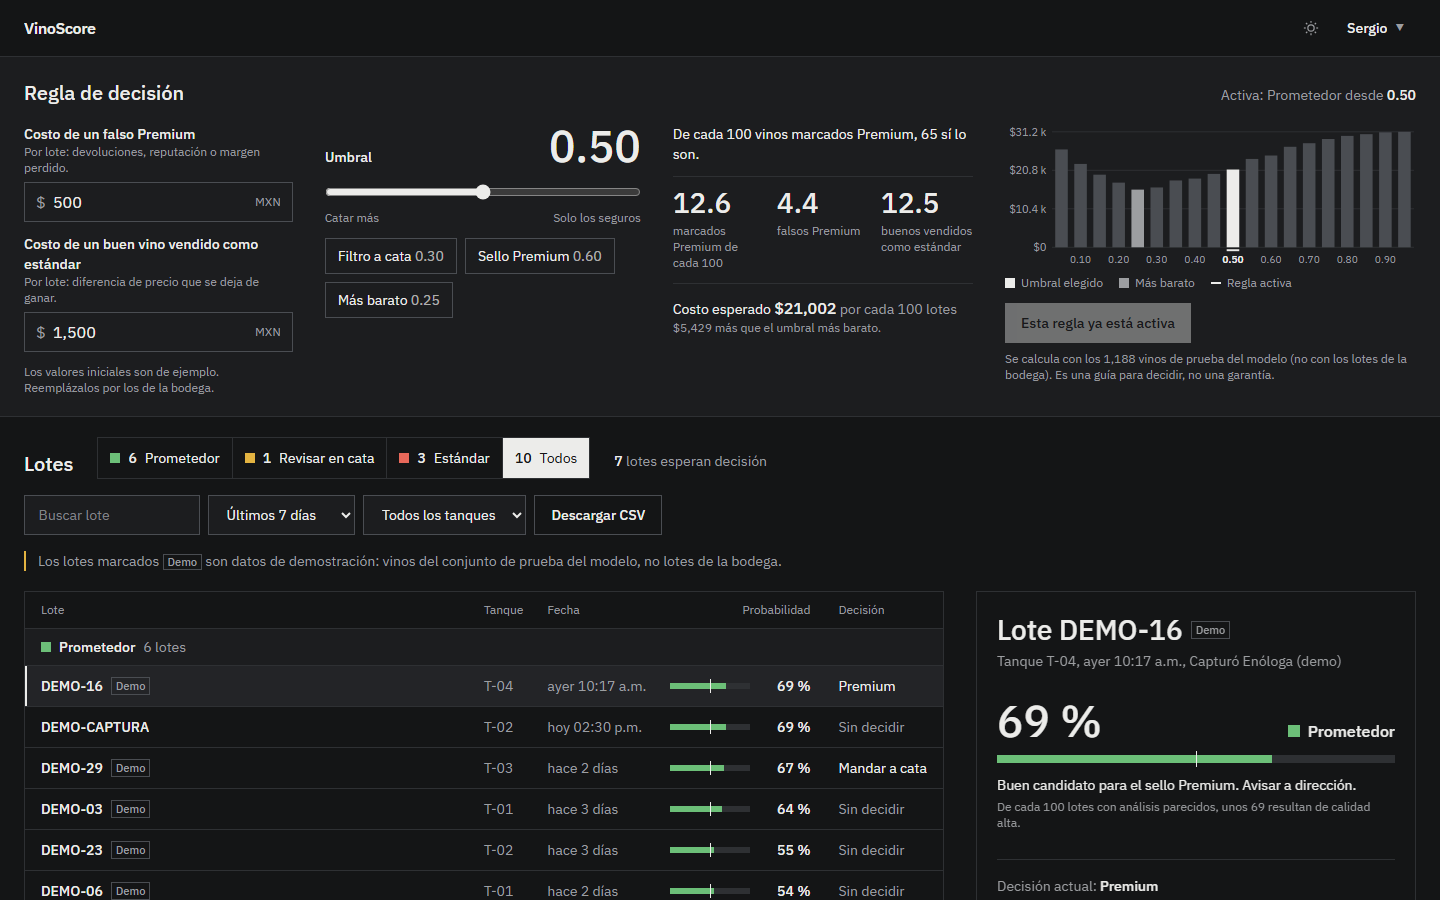
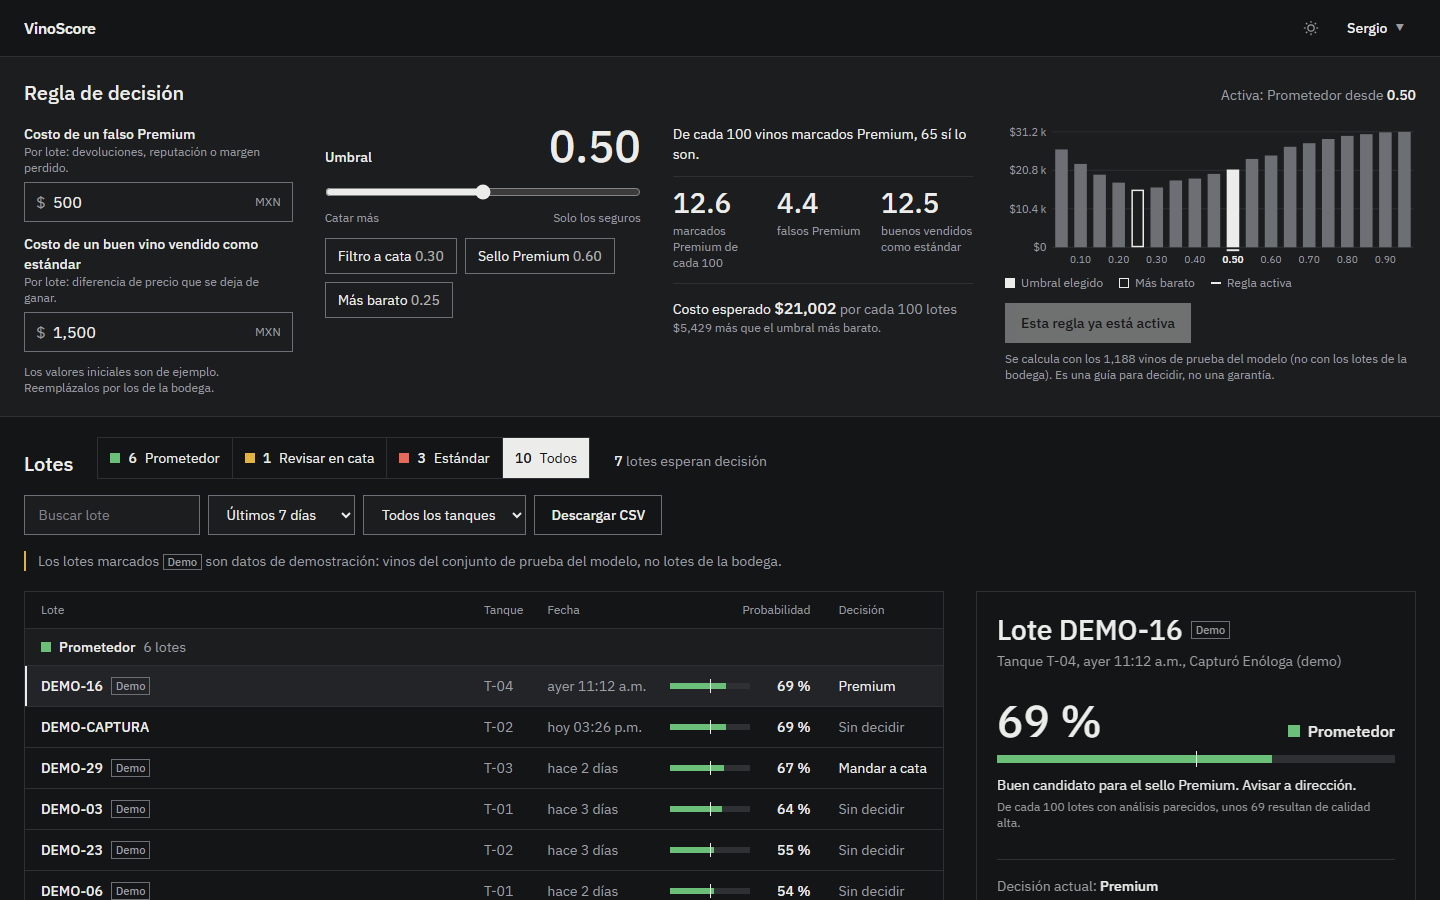
web: barra "Más barato" hueca y capturas del README nuevas
- Con los bordes más oscuros, la barra del umbral más barato casi no se distinguía:
  ahora es hueca (relleno de superficie y contorno del color del texto), sin agregar color.
- Capturas del README tomadas de nuevo con los bordes y la gráfica actuales.
- HANDOFF actualizado.

Changed region(s): [[0.7188, 0.1244, 1.0, 0.28], [0.0625, 0.9956, 0.0938, 1.0]]

diff --git a/web/src/vistas/Regla.tsx b/web/src/vistas/Regla.tsx
@@ -94,10 +94,18 @@ function Grafica({
             >
               <title>{etiqueta}</title>
               <rect className="foco" x={M.i + i * slot + 0.5} y={M.s + 0.5} width={slot - 1} height={alto + M.b - 1} fill="transparent" />
-              <rect
-                x={x} y={yy} width={bw} height={Math.max(M.s + alto - yy, 1)}
-                fill={esSel ? "var(--texto)" : esRec ? "var(--suave)" : "var(--linea-fuerte)"}
-              />
+              {esRec && !esSel ? (
+                // Más barato: barra hueca con contorno del color del texto, distinta de las grises sin usar color.
+                <rect
+                  x={x + 0.75} y={yy + 0.75} width={bw - 1.5} height={Math.max(M.s + alto - yy - 1.5, 1)}
+                  fill="var(--superficie)" stroke="var(--texto)" strokeWidth={1.5}
+                />
+              ) : (
+                <rect
+                  x={x} y={yy} width={bw} height={Math.max(M.s + alto - yy, 1)}
+                  fill={esSel ? "var(--texto)" : "var(--linea-fuerte)"}
+                />
+              )}
               {i % 2 === 1 && (
                 <text x={x + bw / 2} y={H - 8} textAnchor="middle" fontSize={10.5} fill={esSel ? "var(--texto)" : "var(--suave)"} fontWeight={esSel ? 600 : 400}>
                   {num(f.umbral, 2)}
@@ -110,7 +118,7 @@ function Grafica({
       </svg>
       <figcaption className="mt-1 flex flex-wrap gap-x-4 gap-y-1 text-xs text-suave">
         <span className="inline-flex items-center gap-1.5"><span aria-hidden className="inline-block size-2.5 bg-texto" />Umbral elegido</span>
-        <span className="inline-flex items-center gap-1.5"><span aria-hidden className="inline-block size-2.5 bg-suave" />Más barato</span>
+        <span className="inline-flex items-center gap-1.5"><span aria-hidden className="inline-block size-2.5 border border-texto bg-superficie" />Más barato</span>
         <span className="inline-flex items-center gap-1.5"><span aria-hidden className="inline-block h-0.5 w-2.5 bg-texto" />Regla activa</span>
       </figcaption>
     </figure>

diff --git a/HANDOFF.md b/HANDOFF.md
@@ -125,7 +125,7 @@ docs/superpowers/               design spec and implementation plan
 
 1. ~~PR #1 and PR #2~~ merged 2026-11-26; branches and worktree deleted.
 2. ~~Small fixes from the final review~~ **done 2026-11-26** (commit `cff12bf` and following): per-cause empty lot-card text; `/configuracion` failure shows only its own alert; save error cleared on success; `aria-current` on the selected row's button (`data-elegido` on the `<tr>` for tests); IME-safe Enter and `enterKeyHint="done"` on the last field; the cost chart is one Tab stop (`radiogroup`, arrows/Home/End, square focus box); `dt` before `dd` in the rule figures; unused `oscuro` prop removed; diagram re-exported ("regla y simulador"). The UI test covers the new behavior; last full run "Todo bien".
-3. **Accessibility pass.** ~~axe~~ **done 2026-11-26** with axe-core 4.14.1 (`docs/revision_axe.py`, WCAG 2.2 A/AA + best practices, 20 views: both themes, 1440/900/390 px, all enóloga screens). Fixed: Sergio's page had no `h1` (added a screen-reader-only one); "Factores principales" skipped from `h1` to `h3` on the enóloga result (`ListaRazones` now takes `nivel`); lot-group header rows used `scope="colgroup"` (now `rowgroup`); and, checked by hand because axe does not test non-text contrast (WCAG 1.4.11), field and button borders were 2.0–2.3:1, so `--linea-fuerte` went from `#4a4d52`/`#a9aaa6` to `#6c6f73`/`#878988` (≥ 3:1 on background, surface and hover). Result: **0 violations**. Remaining "needs review" items were checked: all text passes 4.5:1 in both themes (SVG chart labels 6.3:1); the rest are decorative `aria-hidden` symbols, elements covered by the open menu/overlay, and axe's known false positive on the full-width `rowgroup` header. Known trade-off: the "Más barato" chart bar is now less distinct from the others (1.9:1 between them; legend and button still name it). The probability bar's track is below 3:1 but the percentage is always written next to it. **Still to do:** a manual pass with a real screen reader (NVDA on Windows, TalkBack on the phone).
+3. **Accessibility pass.** ~~axe~~ **done 2026-11-26** with axe-core 4.14.1 (`docs/revision_axe.py`, WCAG 2.2 A/AA + best practices, 20 views: both themes, 1440/900/390 px, all enóloga screens). Fixed: Sergio's page had no `h1` (added a screen-reader-only one); "Factores principales" skipped from `h1` to `h3` on the enóloga result (`ListaRazones` now takes `nivel`); lot-group header rows used `scope="colgroup"` (now `rowgroup`); and, checked by hand because axe does not test non-text contrast (WCAG 1.4.11), field and button borders were 2.0–2.3:1, so `--linea-fuerte` went from `#4a4d52`/`#a9aaa6` to `#6c6f73`/`#878988` (≥ 3:1 on background, surface and hover). Result: **0 violations**. Remaining "needs review" items were checked: all text passes 4.5:1 in both themes (SVG chart labels 6.3:1); the rest are decorative `aria-hidden` symbols, elements covered by the open menu/overlay, and axe's known false positive on the full-width `rowgroup` header. The darker bars made the "Más barato" bar hard to tell apart, so it is now **hollow** (surface fill, 1.5 px outline in the text color; legend swatch matches); README screenshots retaken on 2026-11-26. The probability bar's track is below 3:1 but the percentage is always written next to it. **Still to do:** a manual pass with a real screen reader (NVDA on Windows, TalkBack on the phone).
 4. **Open questions for Sergio / the team** (also in `docs/ruta_a_produccion.md`, marked ❓): which lab analyses the winery really measures and in what units; historical lots with tasting scores; what he considers "prometedor"; real costs for the decision rule; tank and lot naming; who captures, on what device and connectivity; reports needed; users and roles; final name/logo; presentation date; dataset source.
 5. **Roadmap** (in `ruta_a_produccion.md`, none started): Supabase/PostgreSQL + Alembic, real login with roles, native Expo app, hosting with HTTPS, retraining with winery data + calibration + SHAP, tasting feedback loop, monthly reports, Sentry, audit log, privacy notice (LFPDPPP).
 6. Known small things: Docker/Make untested; the capture field order is a proposal to confirm with the enóloga; the default 7-day period hides older lots until widened.
